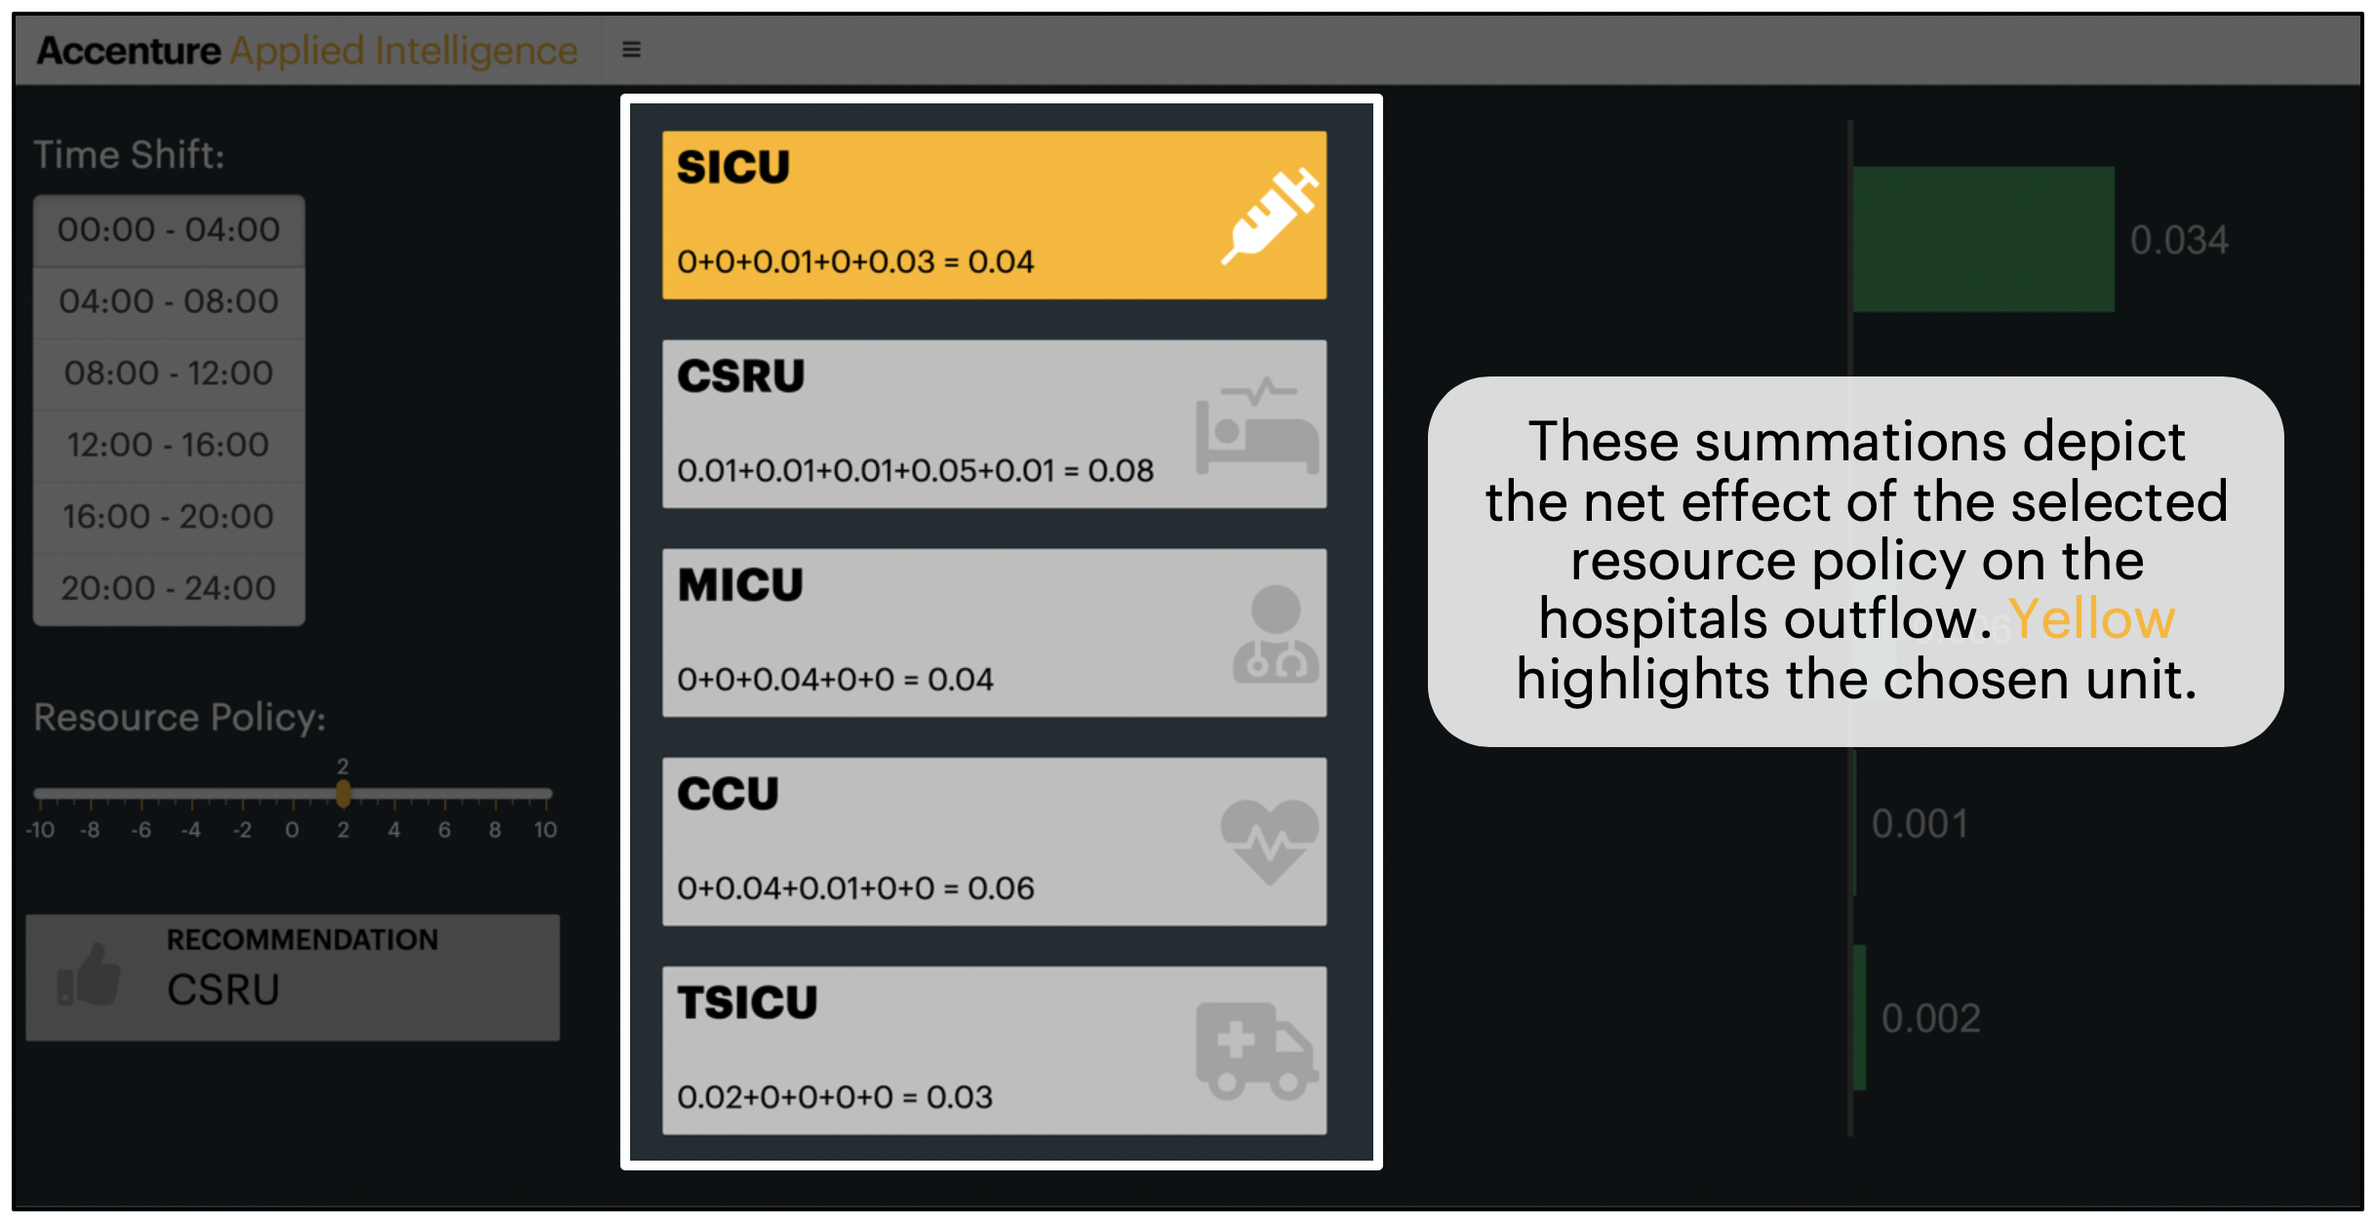
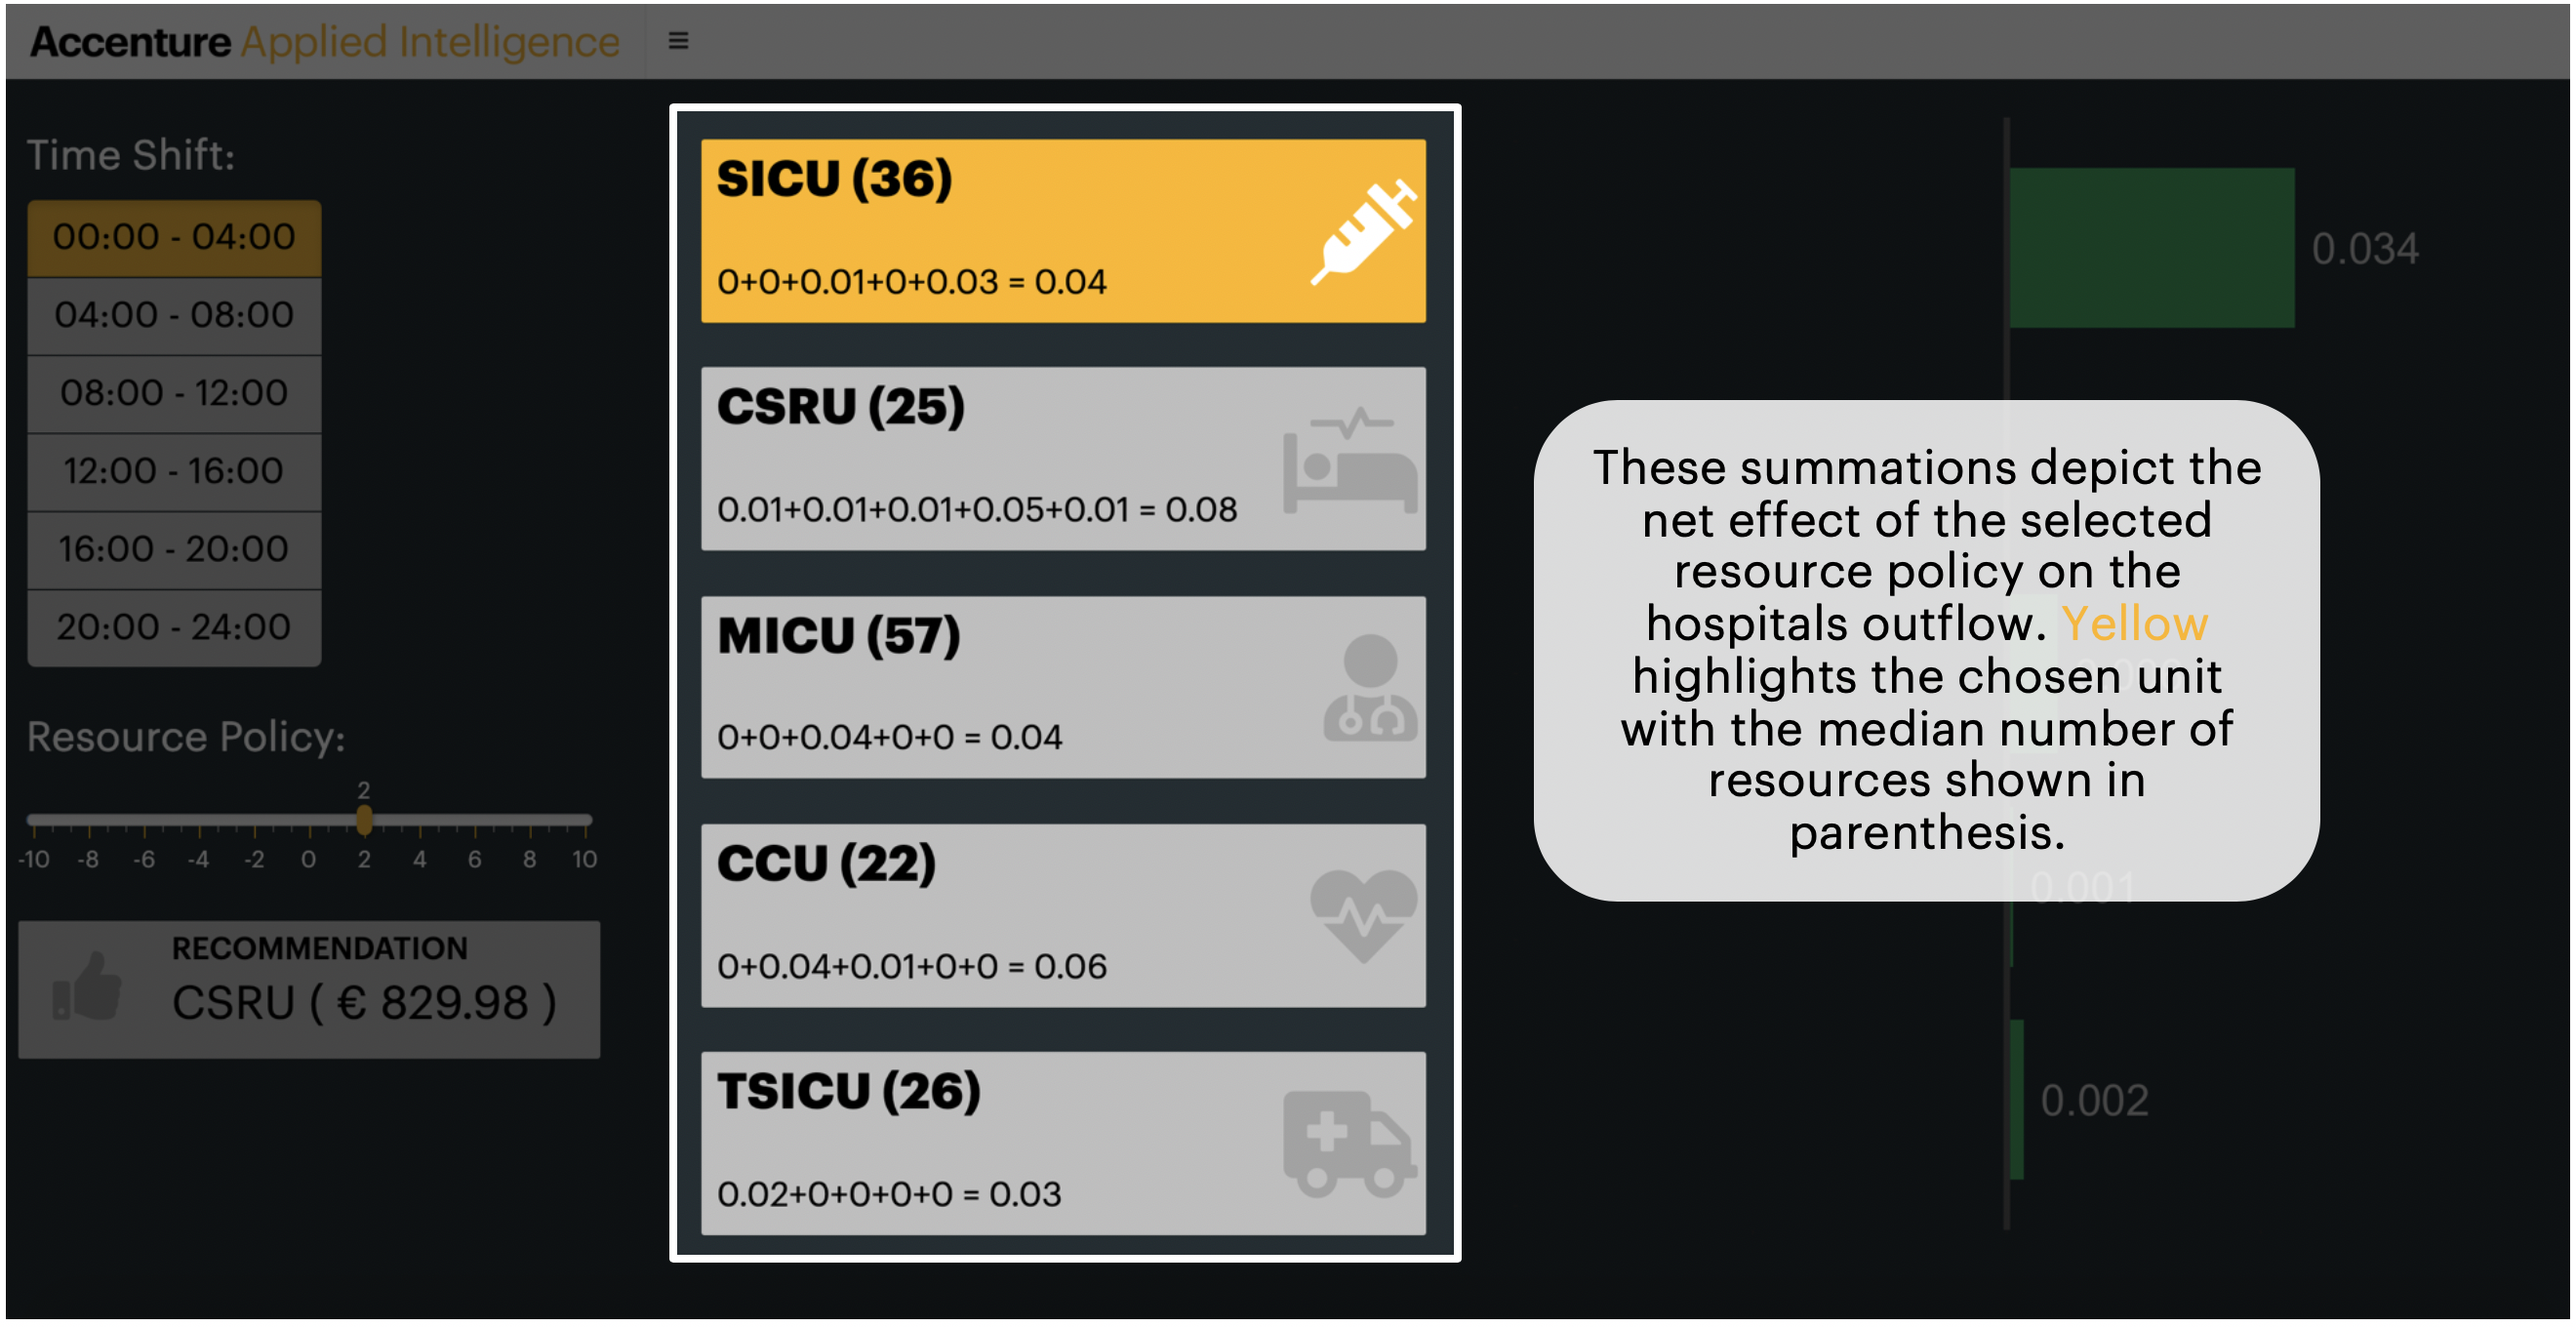
update app to include medians and economic impact. change time shift select colour

diff --git a/outflow-app/www/css/style.css b/outflow-app/www/css/style.css
@@ -45,15 +45,7 @@ i {
 border-color: #ffb600;
 border: 2px solid #ffb600;
 }
-code {
-color: #ffb600;
-background-color: transparent;
-padding: 0px 0px;
-font-size: 80%;
-}
-a:hover {
-color: #ffb600;
-}
+
 .irs-slider {
 top: 19px;
 width: 6px;
@@ -164,9 +156,6 @@ background-color: var(--main-bg-colour);
     color: #444;
 }
 
-
-element.style {
-}
 .box-header .box-title, .box-header>.fa, .box-header>.glyphicon, .box-header>.ion {
     display: inline-block;
     font-size: 30px;
@@ -319,3 +308,23 @@ p {
     content: "\f164";
     color: #969696;
 }
+
+
+.btn-group-vertical>.btn.active, .btn-group-vertical>.btn:active, .btn-group-vertical>.btn:focus, .btn-group-vertical>.btn:hover, .btn-group>.btn.active, .btn-group>.btn:active, .btn-group>.btn:focus {
+    z-index: 2;
+    background-color: #ffb600;
+    color: black;
+    border-color: #222d32;
+}
+
+.btn-default {
+    background-color: #bebebe;
+    border-color: #222d32;
+    color: black;
+    z-index: 2;
+}
+
+
+
+
+
